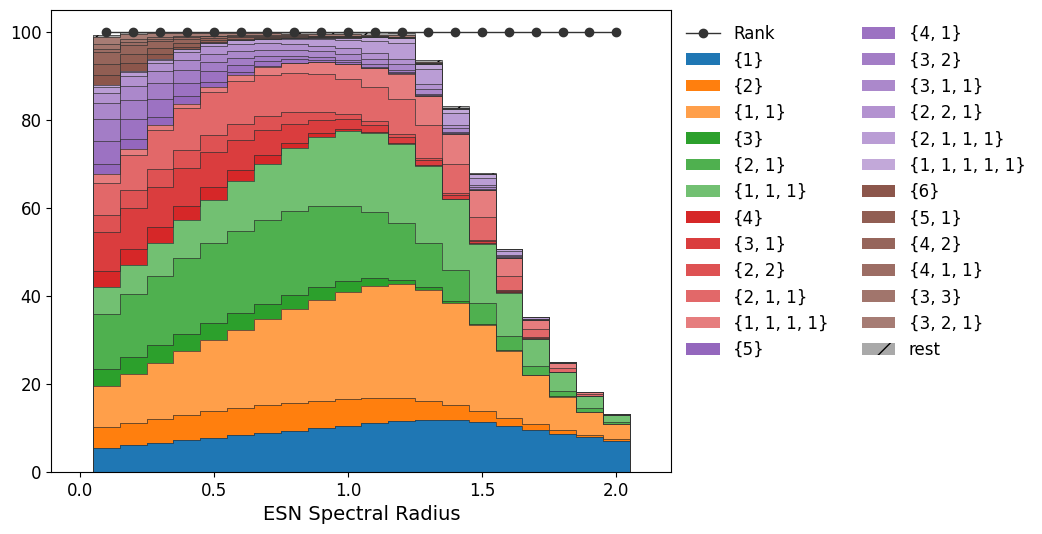
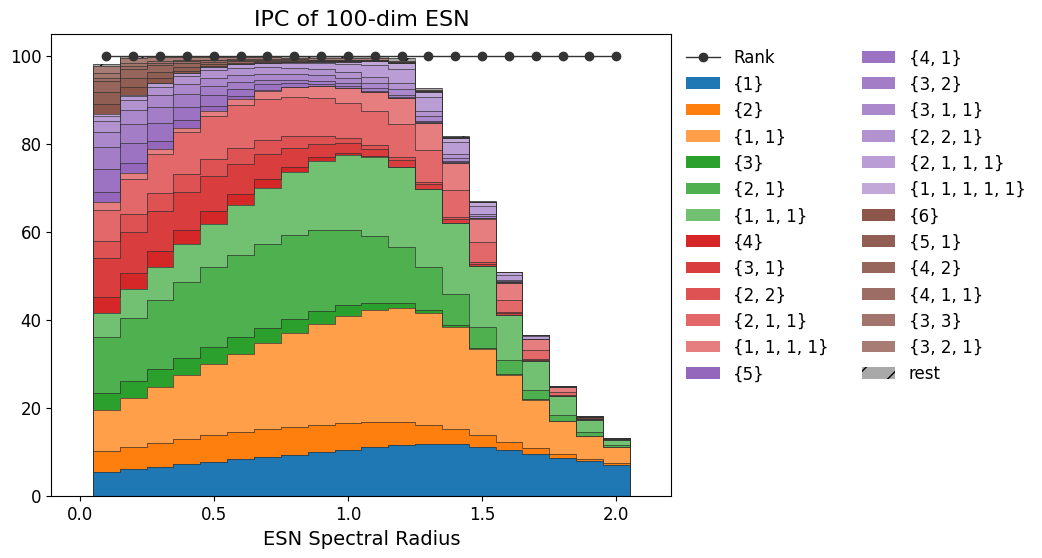
Version 1.0.0

diff --git a/src/ipc_module/profiler.py b/src/ipc_module/profiler.py
@@ -502,6 +502,7 @@ class UnivariateProfiler(UnivariateViewer):
             ```python
             profiler.calc(1, 5)  # (1,) with delays 0 to 4.
             profiler.calc(2, 6, zero_offset=False)  # (1, 1), (2,) with delays 1 to 6.
+            profiler.calc(2, 6, zero_offset=2) # (1, 1), (2,) with delays 2 to 7.
             profiler.calc([2, 3], [7, 8])  # (1, 1), (2,) with delays 0 to 6; (1, 1, 1), (2, 1), (3,) with delays 0 to 7.
             profiler.calc(4, 9, method=lambda key: max(key) >= 2)  # (4,), (3, 1), (2, 2), (2, 1, 1) with delays 0 to 8.
             profiler.calc(5, 10, method=-2)  # (4, 1), (3, 2) with delays 0 to 9.

diff --git a/src/ipc_module/helper.py b/src/ipc_module/helper.py
@@ -358,7 +358,6 @@ def visualize_dataframe(
         )
         if step_linewidth > 0:
             ax.step(pos, rest + bottom, "#333333", where="mid", linewidth=step_linewidth)
-    ax.set_ylim([0, None])
     ax.tick_params(axis="both", which="major", labelsize=fontsize)
     ax.legend(
         loc="upper left",

diff --git a/docs/README.md b/docs/README.md
@@ -1,7 +1,7 @@
 # `ipc-module`
 
-`ipc-module` is a Python module for measuring and analyzing [information processing capacity (IPC)](https://doi.org/10.1038/srep00514), an indicator proposed in reservoir computing.
-Using `pytorch` and `cupy`, it can quickly measure the IPC of various systems.
+`ipc-module` is a Python library for measuring and analyzing [information processing capacity (IPC)](https://doi.org/10.1038/srep00514), an indicator proposed in reservoir computing.
+Using `pytorch` and `cupy`, it can quickly measure the IPC of various systems on GPUs.
 Currently, it supports the measurement of IPC for one-dimensional inputs.
 It is also possible to measure the IPC for arbitrary input time series distributions using Gram-Schmidt orthogonalization.
 
@@ -16,13 +16,14 @@ Alternatively, you can use various project management tools (such as `uv`, `poet
 ## Usage
 
 In short, IPC is a metric that evaluates how much a system can process input time-series information.
-Specifically, it generates various linear and nonlinear transformations of input time series using orthogonal polynomials without duplication and evaluates how well each transformation can be reproduced from the system's current state.
-For a detailed explanation of IPC and more usage examples of `ipc-module`, refer to **Chapters 6 and 7** and the sample code of [**RC bootcamp**](https://rc-bootcamp.github.io/), a hands-on resource for reservoir computing beginners.
+It generates various linear and nonlinear transformations of input time series using orthogonal polynomials without duplication.
+It evaluates how well each transformation can be reproduced from the system's current state.
+For a detailed explanation of IPC and more usage examples of `ipc-module`, see **Chapters 6 and 7** and their sample code at [**RC bootcamp (URL: https://rc-bootcamp.github.io/)**](https://rc-bootcamp.github.io/), a hands-on resource for reservoir computing beginners.
 
 ### Measuring IPC of echo state network
 
-As an example, we show how to measure the IPC of an echo state network (ESN), a type of recurrent neural network.
-In the following cell, we generate a 1-input, 100-dimensional ESN and store its response to a 100,000-step input time series generated from i.i.d. uniform random numbers in [-1, 1] as `xs`.
+The following example shows how to measure the IPC of an echo state network (ESN), a type of recurrent neural network.
+The following cell generates a 1-input, 100-dimensional ESN and stores its response to a 100,000-step input time series generated from i.i.d. uniform random numbers in [-1, 1] as `xs`.
 When you use it, replace this `xs` with the time series of the system to be measured.
 
 
@@ -32,29 +33,32 @@ import numpy as np
 seed = 1234
 input_dim = 1
 esn_dim = 100
-time_steps = 100000
+t_washout = 1000
+t_sample = 100000
 esn_sr = np.linspace(0, 2.0, 21)[1:]  # Spectral radii to test.
 
-rnds = np.random.default_rng(seed).spawn(4)
-x0 = rnds[0].uniform(-1, 1, (len(esn_sr), esn_dim))
-us = rnds[1].uniform(-1, 1, (time_steps, input_dim))  # Input signal.
-w_esn = rnds[2].normal(0, 1 / np.sqrt(esn_dim), (esn_dim, esn_dim))
+rngs = np.random.default_rng(seed).spawn(4)
+x0 = rngs[0].uniform(-1, 1, (len(esn_sr), esn_dim))
+us = rngs[1].uniform(-1, 1, (t_washout + t_sample, input_dim))  # Input signal.
+w_esn = rngs[2].normal(0, 1 / np.sqrt(esn_dim), (esn_dim, esn_dim))
 w_esn /= np.abs(np.linalg.eigvals(w_esn)).max()  # Normalize to spectral radius 1.
-w_in = rnds[3].normal(0, 1, (esn_dim, input_dim))
+w_in = rngs[3].normal(0, 1, (esn_dim, input_dim))
 
 x = x0
-xs = np.zeros((time_steps, *x0.shape), dtype=x0.dtype)
-for idx in range(time_steps):
+xs = np.zeros((t_washout + t_sample, *x0.shape), dtype=x0.dtype)
+for idx in range(t_washout + t_sample):
     xw = esn_sr[..., None] * (x[..., None, :] @ w_esn.T)[..., 0, :]
     uw = us[idx : idx + 1] @ w_in.T
     x = np.tanh(xw + (0.5 * uw + 0.5))  # Asymmetric input.
     # x = np.tanh(xw + uw)  # Symmetric input.
     xs[idx] = x
 
+print(f"shape of us: {us.shape}")
 print(f"shape of xs: {xs.shape}")
 ```
 
-    shape of xs: (100000, 20, 100)
+    shape of us: (101000, 1)
+    shape of xs: (101000, 20, 100)
 
 
 The response of the ESN, with spectral radius varying from 0.1 to 2.0 in 0.1 steps, is stored, so the shape of `xs` is `(100000, 20, 100)`.
@@ -90,7 +94,7 @@ profiler = UnivariateProfiler(
     poly_name="GramSchmidt",
     surrogate_num=1000,
     surrogate_seed=0,
-    offset=1000,
+    offset=t_washout,
     axis1=0,
     axis2=-1,
 )
@@ -139,16 +143,133 @@ visualize_dataframe(
 )
 ax.plot(esn_sr, rank, lw=1.0, color="#333333", marker="o", label="Rank")
 ax.legend(fontsize=12, loc="upper left", frameon=False, bbox_to_anchor=(1.0, 1.0), ncol=2)
-# ax.set_ylim([0, esn_dim * 1.05])
 ax.set_xlabel("ESN Spectral Radius", fontsize=14)
+ax.set_title(f"IPC of {esn_dim}-dim ESN", fontsize=16)
 
 None
 ```
 
 
-    
+
 ![png](assets/README_14_0.png)
-    
+
+
+
+### Measuring IPC of nonlinear autoregressive moving average task
+
+The example below shows how to measure the IPC for the NARMA10 (nonlinear autoregressive moving average of order 10) task.
+The NARMA10 task is a nonlinear time-series prediction problem widely used as a benchmark in reservoir computing.
+
+
+```python
+def narma_func(us, y_init, alpha=0.3, beta=0.05, gamma=1.5, delta=0.1, mu=0.25, kappa=0.25):
+    assert us.shape[0] > 10
+    vs = mu * us + kappa
+    ys = np.zeros_like(vs)
+    ys[:10] = y_init
+    for idx in range(10, ys.shape[0]):
+        ys[idx] += alpha * ys[idx - 1]
+        ys[idx] += beta * ys[idx - 1] * np.sum(ys[idx - 10 : idx], axis=0)
+        ys[idx] += gamma * vs[idx - 10] * vs[idx - 1]
+        ys[idx] += delta
+    return ys
+
+
+seed = 1234
+input_dim = 1
+esn_dim = 100
+t_washout = 1000
+t_sample = 100000
+amps = np.linspace(0, 0.25, 11)[1:]
+
+rng = np.random.default_rng(seed)
+us = rng.uniform(-1.0, 1.0, (t_sample + t_washout, 1))
+ys = narma_func(
+    us[..., None, :], y_init=np.zeros((amps.shape[0], 1)), mu=amps[:, None], kappa=amps[:, None]
+)
+
+print(f"shape of us: {us.shape}")
+print(f"shape of ys: {ys.shape}")
+```
+
+    shape of us: (101000, 1)
+    shape of ys: (101000, 10, 1)
+
+
+The input time series is generated from a uniform distribution in [-1, 1].
+The output time series is generated using the `narma_func` function.
+The input distribution is varied by `mu` and `kappa` (`vs = mu * us + kappa`).
+Typically, `mu=0.25` and `kappa=0.25` are used, but here we vary them continuously to examine their effect on IPC.
+
+
+```python
+backend = "torch"
+assert backend in ["numpy", "torch", "cupy"], "Invalid backend."
+
+if backend == "torch":
+    import torch
+
+    ys_c, us_c = torch.from_numpy(ys).cuda(), torch.from_numpy(us).cuda()
+elif backend == "cupy":
+    import cupy
+
+    ys_c, us_c = cupy.asarray(ys), cupy.asarray(us)
+else:
+    ys_c, us_c = ys, us
+
+
+profiler = UnivariateProfiler(
+    us_c,
+    ys_c,
+    poly_name="GramSchmidt",
+    surrogate_num=1000,
+    surrogate_seed=0,
+    offset=t_washout,
+    axis1=0,
+    axis2=-1,
+)
+
+degrees = [1, 2, 3, 4, 5, 6]
+taus = [200, 100, 50, 20, 10, 5]
+for deg, tau in zip(degrees, taus, strict=True):
+    profiler.calc(deg, tau + 1, zero_offset=True)
+profiler.save("./ipc_narma.npz", amps=amps)
+```
+
+The following cell plots the results using the same code as before.
+This time, we set `group_by="detail"` to display the IPC for each degree and each delay component, which correspond to the components necessary to solve the NARMA10 task.
+
+
+```python
+viewer = UnivariateViewer("./ipc_narma.npz")
+amps = viewer.info["amps"]
+df, rank = viewer.to_dataframe(max_scale=1.0, truncate_by_rank=True)
+
+fig, ax = plt.subplots(1, 1, figsize=(8, 6))
+visualize_dataframe(
+    ax,
+    df,
+    xticks=amps,
+    threshold=0.01,
+    cmap="tab10",
+    group_by="detail",  # NOTE: Either "degree", "component", or "detail" is available.
+    fontsize=12,
+)
+ax.plot(amps, rank, lw=1.0, color="#333333", marker="o", label="Rank")
+ax.legend(fontsize=12, loc="upper left", frameon=False, bbox_to_anchor=(1.0, 1.0), ncol=1)
+ax.set_xlabel(
+    r"$\sigma$ (Input amplitude, i.e., $v[t] := \sigma u[t] + \sigma \sim \mathcal{U}\left([0, \sigma]\right)$)",
+    fontsize=14,
+)
+ax.set_title("IPC of NARMA10 task", fontsize=16)
+
+None
+```
+
+
+
+![png](assets/README_21_0.png)
+
 
 
 ## License
@@ -171,16 +292,16 @@ If you use `ipc-module` in your research or development, please cite the followi
 `ipc-module` is part of RC bootcamp and was released on PyPI at the same time as its publication.
 
 ```bibtex
-@article{inoue2025rcbootcamp,
-  title   = {Reservoir computing bootcamp---from Python/NumPy tutorial for the complete beginners to cutting-edge research topics of reservoir computing},
-  author  = {Inoue, Katsuma and Kubota, Tomoyuki and Tran, Quoc Hoan and Akashi, Nozomi and Terajima, Ryo and Kabayama, Tempei and Guan, JingChuan and Nakajima, Kohei},
-  year    = 2025,
-  month   = XX,
-  journal = {XX},
-  volume  = {XX},
-  number  = {X},
-  pages   = {XXXXXX},
-  issn    = {XXXX-XXXX},
+@article{inoue2026reservoir,
+  title   = {Reservoir Computing Bootcamp---{{From Python}}/{{NumPy}} Tutorial for the Complete Beginners to Cutting-Edge Research Topics of Reservoir Computing},
+  author  = {Inoue, Katsuma and Kubota, Tomoyuki and Hoan Tran, Quoc and Akashi, Nozomi and Terajima, Ryo and Kabayama, Tempei and Guan, JingChuan and Nakajima, Kohei},
+  year    = 2026,
+  month   = feb,
+  journal = {Chaos: An Interdisciplinary Journal of Nonlinear Science},
+  volume  = {36},
+  number  = {2},
+  pages   = {023109},
+  issn    = {1054-1500},
   doi     = {10.1063/5.0283386}
 }
 ```

diff --git a/README.md b/README.md
@@ -1,4 +1,4 @@
 # `ipc-module`
 
-`ipc-module` is a Python module for measuring and analyzing information processing capacity (IPC), an indicator proposed in reservoir computing.
+`ipc-module` is a Python library for measuring and analyzing information processing capacity (IPC), an indicator proposed in reservoir computing.
 See the [documentation](https://rc-bootcamp.github.io/ipc-module/) for more details.
